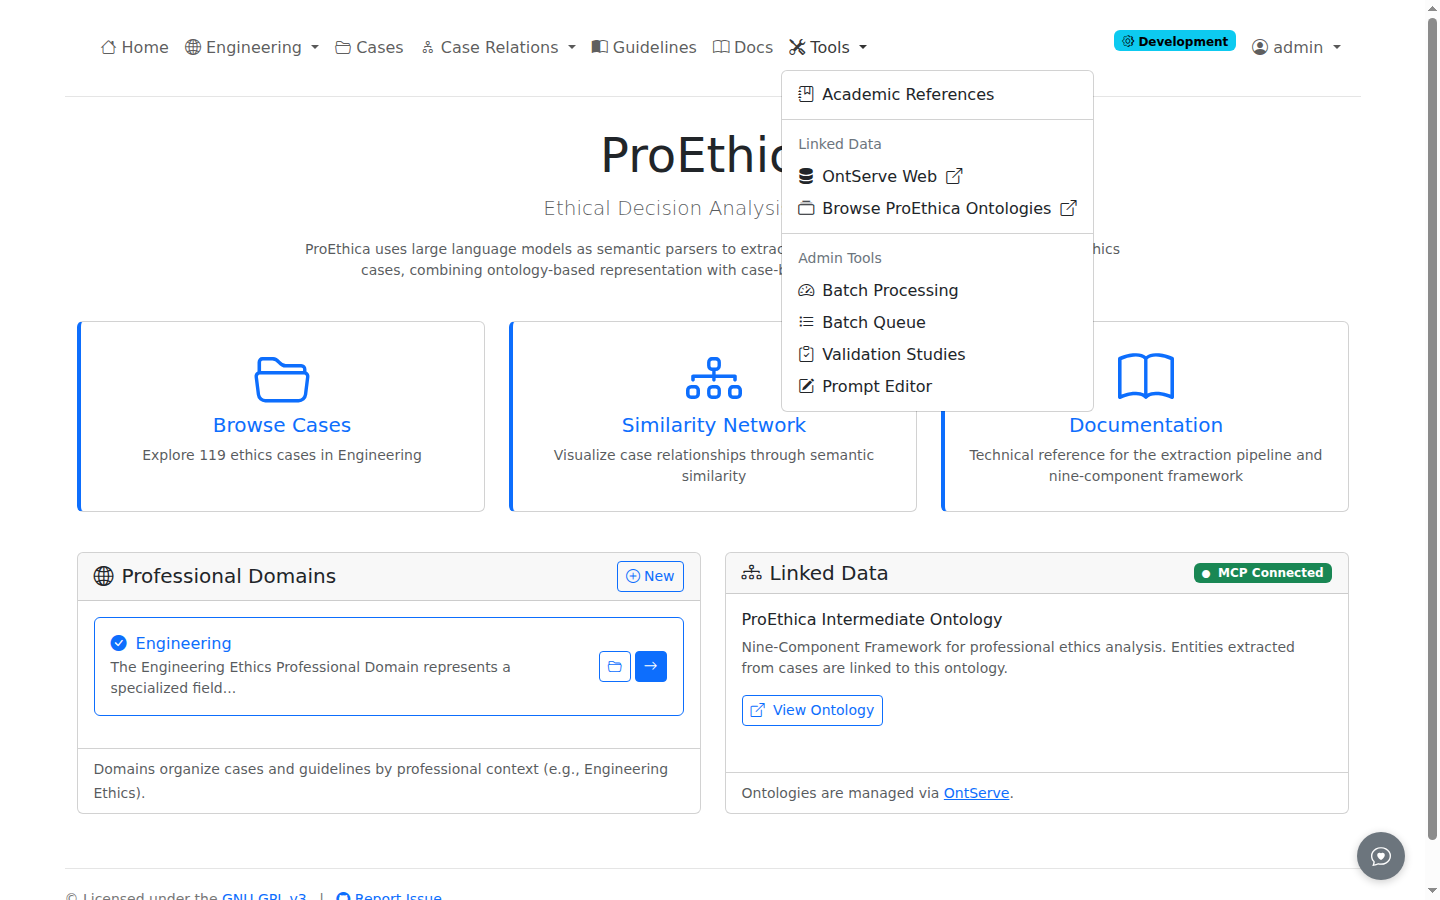
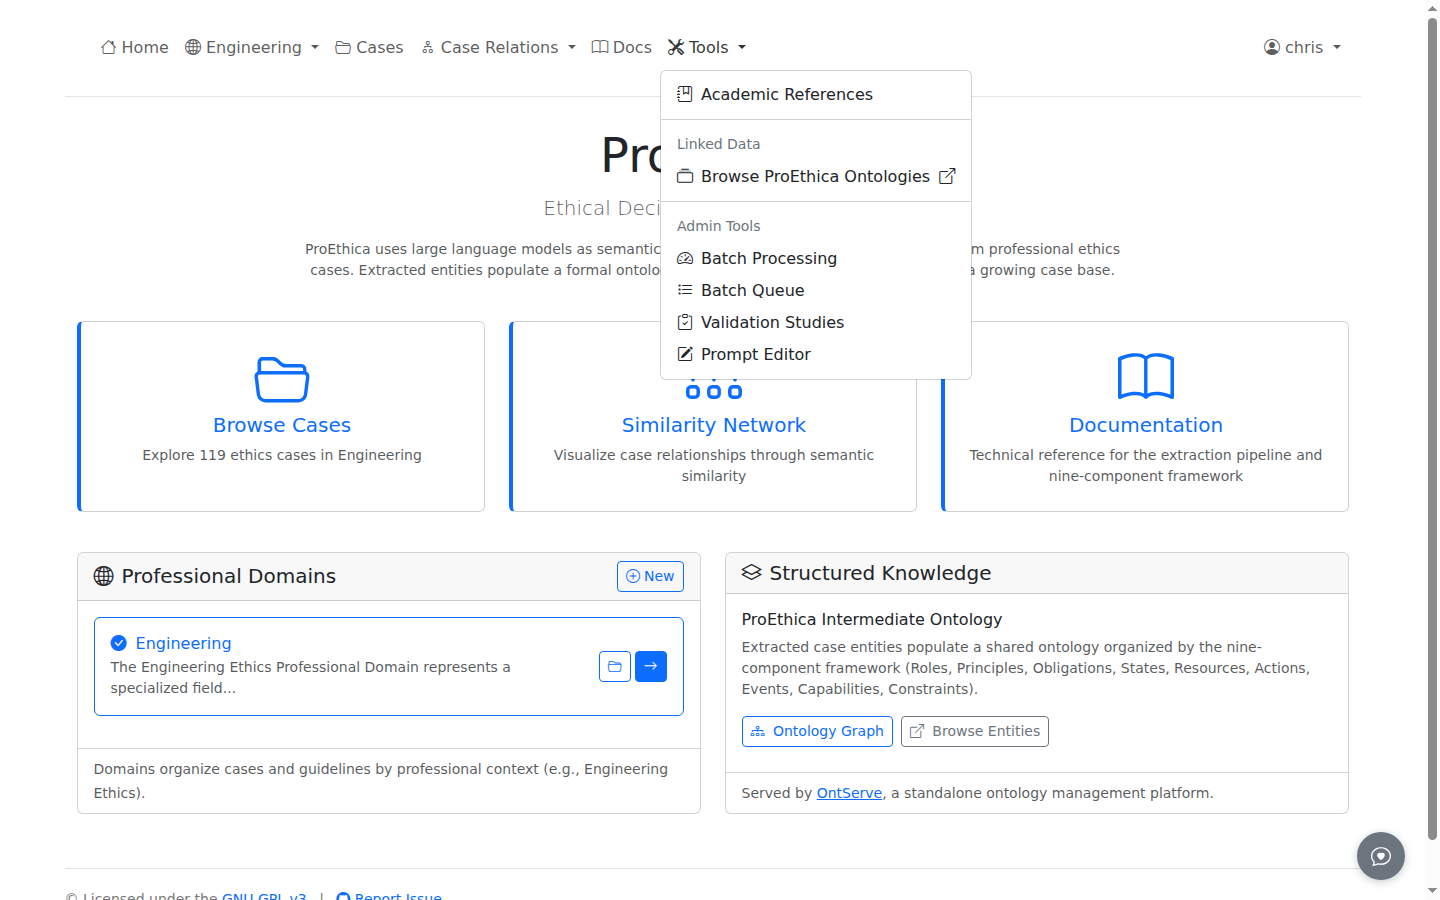
Screenshots recaptured; publications page expanded from the Zotero record
navbar-tools-dropdown.png and precedent-discovery-content.png recaptured
at 1440x900 against the live application (admin view): the Tools menu now
shows Validation Studies and the current Linked Data entry, and the
precedent page shows the component-aware card layout with D-tuple,
provision-overlap, and tag-overlap scores for a real query (case 24-2).

Publications: the withdrawn Hypertext manuscript PDF is removed; IEEE CAI
2025 gains its DOI; a Related Publications section lists the
decision-maker-alignment program and companion-system papers (CEUR 3993,
IEEE CAI benchmark datasets, the health-insurance preprint, OntExtract at
JCDL 2025, the two ICCBR 2024 papers, and the AAAI Symposium Series
paper), sourced from the Zotero library record.

diff --git a/docs/papers/index.md b/docs/papers/index.md
@@ -37,7 +37,7 @@ Rauch, C. B. (2025). *Proceedings of the AAAI/ACM Conference on AI, Ethics, and 
 
 **Role-Based Ethics for Decision-Maker Alignment**
 
-Rauch, C. B., Molineaux, M., Mainali, M., Sen, S., Floyd, M. W., & Weber, R. O. (2025). *Proceedings of the IEEE Conference on Artificial Intelligence*.
+Rauch, C. B., Molineaux, M., Mainali, M., Sen, A., Floyd, M. W., & Weber, R. O. (2025). *Proceedings of the IEEE Conference on Artificial Intelligence*. DOI: [10.1109/CAI64502.2025.00209](https://doi.org/10.1109/CAI64502.2025.00209).
 
 ## Accepted (To Appear)
 
@@ -62,6 +62,38 @@ Treats the proethica-core vocabulary, including the `competesWith`, `prevailsOve
 The nine-component framework, its ontology, and the validation methodology are
 developed in full in the doctoral dissertation of the author (Drexel
 University, defended June 2026).
+
+## Related Publications
+
+Publications by the author from the decision-maker alignment research program
+and companion systems that inform the ProEthica design:
+
+- Weber, R. O., Rauch, C. B., & Amin, S. (2025). Decision Making in LLMs: A
+  First Step. *CEUR Workshop Proceedings*, 3993, 15-26.
+- Sen, A., Weber, R. O., Rauch, C. B., Mainali, M., Turner, J., Meyer, D.,
+  Floyd, M. W., & Molineaux, M. (2025). Decision-Maker Alignment: Benchmark
+  Datasets. *2025 IEEE Conference on Artificial Intelligence (CAI)*.
+  DOI: [10.1109/CAI64502.2025.00212](https://doi.org/10.1109/CAI64502.2025.00212).
+- Mainali, M., Sureshbabu, H., Sen, A., Rauch, C. B., Reifsnyder, N. D., et
+  al. (2025). Classical AI vs. LLMs for Decision-Maker Alignment in Health
+  Insurance Choices. arXiv preprint.
+  DOI: [10.48550/arXiv.2510.06093](https://doi.org/10.48550/arXiv.2510.06093).
+- Rauch, C. B., Choi, H. W., & Kelly, M. (2025). OntExtract: PROV-O
+  Provenance Tracking for Document Analysis Workflows. *2025 ACM/IEEE Joint
+  Conference on Digital Libraries (JCDL)*.
+  DOI: [10.1109/JCDL67857.2025.00038](https://doi.org/10.1109/JCDL67857.2025.00038).
+- Molineaux, M., Weber, R. O., Floyd, M. W., et al., including Rauch, C. B.
+  (2024). Aligning to Human Decision-Makers in Military Medical Triage.
+  *Case-Based Reasoning Research and Development (ICCBR 2024)*, LNCS 14775.
+  DOI: [10.1007/978-3-031-63646-2_24](https://doi.org/10.1007/978-3-031-63646-2_24).
+- Sen, A., Mainali, M., Rauch, C. B., et al. (2024). Counterfactual-Based
+  Synthetic Case Generation. *Case-Based Reasoning Research and Development
+  (ICCBR 2024)*, LNCS 14775.
+  DOI: [10.1007/978-3-031-63646-2_25](https://doi.org/10.1007/978-3-031-63646-2_25).
+- Rauch, C. B., Addison, U., Floyd, M. W., et al. (2024). Algorithmic
+  Decision-Making in Difficult Scenarios. *Proceedings of the AAAI Symposium
+  Series*.
+  [AAAI OJS](https://ojs.aaai.org/index.php/AAAI-SS/article/view/31285).
 
 ## Differentiation
 

diff --git a/docs/viewing/precedent-network.md b/docs/viewing/precedent-network.md
@@ -28,7 +28,7 @@ Each case card includes a **Find Similar** link (blue badge) that opens preceden
 On any case Structure page, click **Find More Precedents** in the Similar Cases sidebar.
 
 ![Precedent Discovery](../assets/images/screenshots/precedent-discovery-content.png)
-*Precedent discovery page showing similar cases ranked by combined similarity score*
+*Precedent discovery page showing similar cases ranked by component-aware similarity*
 
 ## Using Precedent Discovery
 